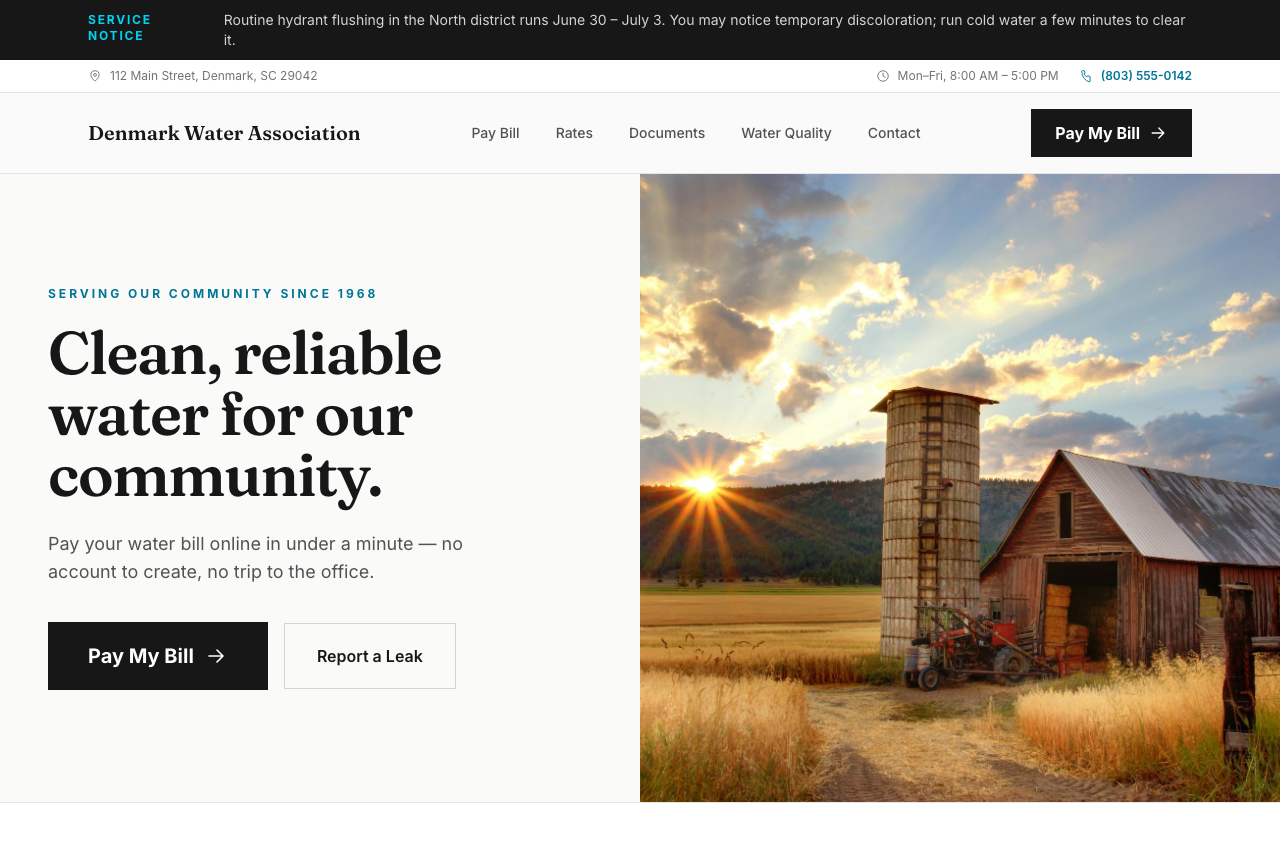
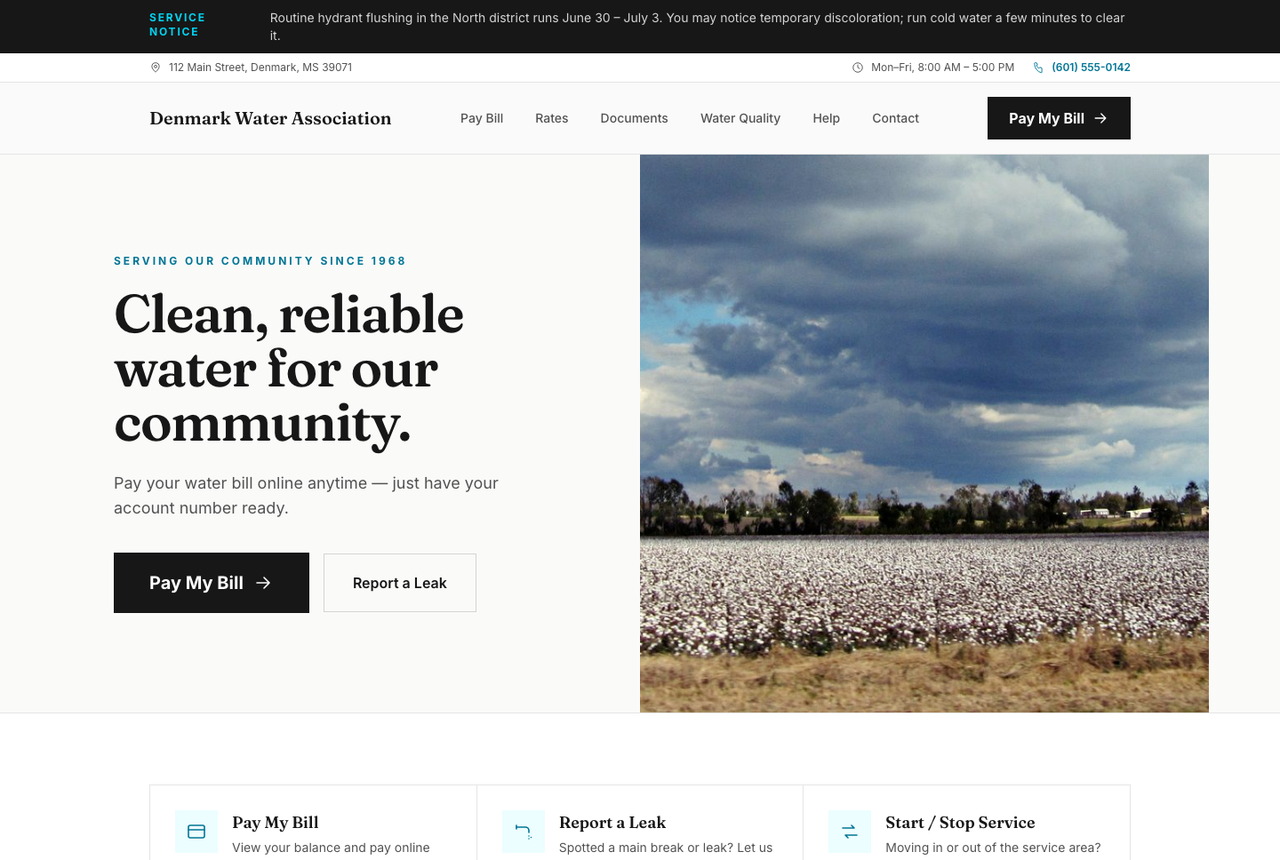
Drop Civic Blue; down to two packages for the client vote
- Remove the Starter/Civic Blue tier per feedback — it read as the
  generic municipal template of the three
- Refresh Community Spring + Modern Slate preview thumbnails to match
  the new amber palette and real Mississippi photography

diff --git a/app/page.tsx b/app/page.tsx
@@ -6,23 +6,6 @@ const VOTE_EMAIL = "jamesburge.mcm@gmail.com";
 
 const tiers = [
   {
-    key: "civic",
-    design: "Civic Blue",
-    tier: "Starter",
-    price: "$1,600",
-    accent: "#2563eb",
-    url: "https://denmark-water-civic-blue.vercel.app",
-    shot: "/shots/civic-blue.png",
-    look: "Trustworthy & municipal — the classic, dependable utility look.",
-    why: "The essentials, done clean. Everything a resident needs to pay online and nothing they don't — a sharp, simple site that gets the job done.",
-    features: [
-      "Responsive website — home, services, water quality, contact",
-      "Online bill-pay portal",
-      "Report-a-leak & start/stop request forms",
-      "Hosting, SSL, monitoring & support",
-    ],
-  },
-  {
     key: "community",
     design: "Community Spring",
     tier: "Standard",
@@ -34,8 +17,8 @@ const tiers = [
     why: "A fuller site with self-service built in. Adds a rates page, a service-notice banner you control, autopay, and live card payments wired to your billing — more site, more value.",
     popular: true,
     features: [
-      "Everything in Starter, plus —",
-      "Rates page + service-notice banner",
+      "Responsive website — home, rates, water quality, contact",
+      "Online bill-pay portal + service-notice banner",
       "Autopay enrollment for members",
       "Live payment processor + staff training",
     ],
@@ -76,7 +59,7 @@ export default function TierChooser() {
       <div className="mx-auto max-w-5xl px-5 py-12 md:py-16">
         <p className="text-sm font-semibold uppercase tracking-[0.2em] text-slate-500">For review · Denmark Water Association</p>
         <h1 className="mt-2 font-serif text-4xl font-semibold tracking-tight text-slate-900 md:text-5xl">
-          Three websites, three packages
+          Two websites, two packages
         </h1>
         <p className="mt-4 max-w-2xl text-lg text-slate-600">
           Each design is a complete, working site you can open and click through — try <strong>Pay My Bill</strong>.
